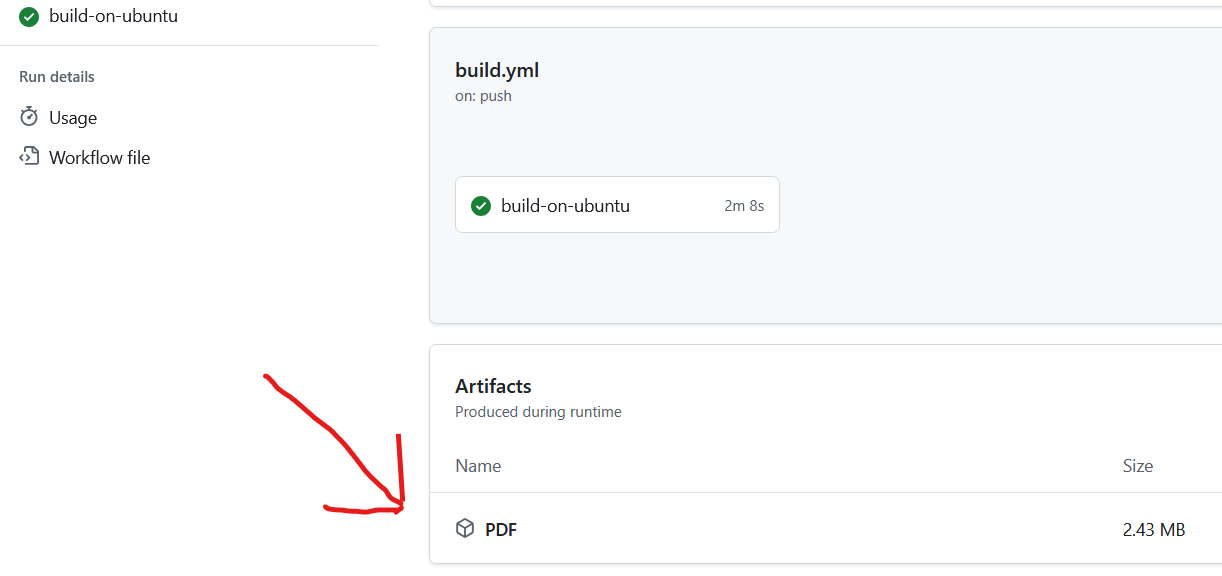
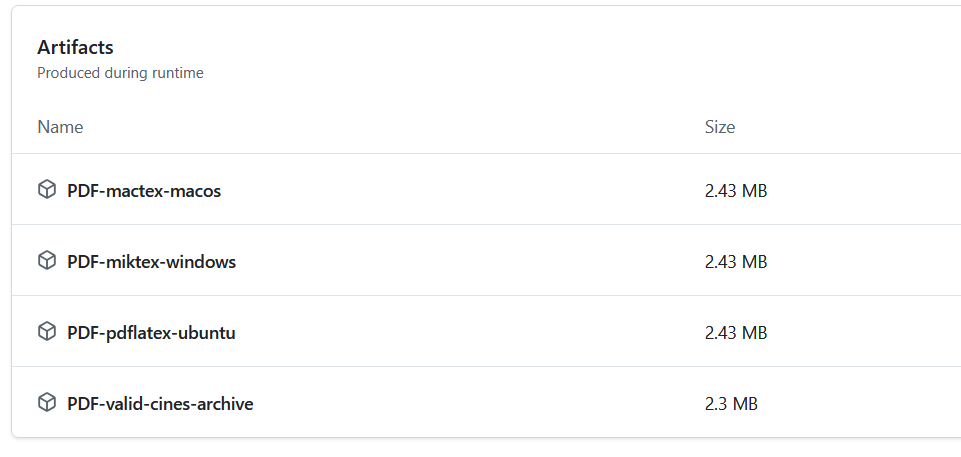
Add uploaded artifact info in README

diff --git a/README.md b/README.md
@@ -1,12 +1,28 @@
 # these-I3S
 
+## Français
+
+### Présentation
+
 Vous trouverez ici un modèle de thèse en latex avec pour [couverture celle demandée par Université Côte d'Azur](https://bu.univ-cotedazur.fr/fr/utiliser-nos-services/deposer-sa-these-ou-son-memoire/deposer-sa-these-de-doctorat).
 
 Les macros `\hdr` et `\master` permettent de spécifier que le document est respectivement pour une habilitation à diriger les recherches et pour une mémoire de master.
 
-Une pipeline GitHub Actions compile automatiquement le projet à chaque nouveau commit. Ainsi, vous avez la garantie que le code LaTeX compile correctement à chacune de vos modifications, si le job réussit !
+:point_right: N'hésitez pas à poster des issues ou faire des pull-request pour améliorer ce modèle.
 
-Une fois le job terminé, vous pourrez alors télécharger le PDF compilé directement dans les artefacts GitHub:
+### Validation automatique du code LaTeX
+
+Une pipeline GitHub Actions compile automatiquement le projet à chaque nouveau commit. Les tests de build sont lancés sur les plateformes suivantes:
+
+- :penguin: Ubuntu avec pdflatex
+- :keycap_ten: Windows avec MikTex
+- :apple: MacOS avec MacTex
+
+Ainsi, vous avez la garantie que le code LaTeX compile correctement à chacune de vos modifications sur toutes ces plateformes, si les jobs réussissent !
+
+### Génération automatique des PDFs compilés
+
+Une fois les jobs terminés, vous pourrez alors télécharger les PDFs compilés sur chacune des plateformes directement dans les artefacts GitHub Actions:
 
 Aller dans l'onglet **Actions**:
 
@@ -16,32 +32,55 @@ Sélectionner le dernier Workflow, correspondant à votre commit:
 
 ![Workflow GitHub actions](assets/build_workflow.png)
 
-Enfin, télécharger votre fichier PDF compilé:
+Enfin, télécharger les fichiers PDFs compilés sur chacune des plateformes:
 
 ![Téléchargement de l'artefact compilé](assets/download_artifact.png)
 
-N'hésitez pas à poster des issues ou faire des pull-request pour améliorer ce modèle.
+Un artefact prêt à l'archivage, directement compatible avec le format Facile CINES (https://facile.cines.fr/) est aussi automatiquement généré:
 
----
+![PDF archive compatible avec le format Facile CINES](assets/valid_cines_format.png)
+
+:white_check_mark: Il devrait alors être possible d'envoyer ce PDF directement sur ADUM !
+
+
+## English
+
+### Presentation
 
 You'll find here a Ph.D. thesis template in latex with the [first page requested by Université Côte d'Azur](https://bu.univ-cotedazur.fr/fr/utiliser-nos-services/deposer-sa-these-ou-son-memoire/deposer-sa-these-de-doctorat).
 
 The macros `\hdr` and `\master` specify that the thesis is respectively for a *habilitation à diriger les recherches* and for a master thesis.
 
-A GitHub Actions pipeline automatically compiles the project with each new commit. This ensures that the LaTeX code compiles correctly with each change, if the job is successful!
+:point_right: Do not hesitate to post issues or pull requests to improve this model.
 
-Once the job is complete, you can download the compiled PDF directly from your GitHub artifacts:
+### Automatic LaTeX code validation
+
+A GitHub Actions pipeline automatically compiles the project with each new commit. Build tests are run on the following platforms:
+
+- :penguin: Ubuntu with pdflatex
+- :keycap_ten: Windows with MikTeX
+- :apple: macOS with MacTeX
+
+This guarantees that the LaTeX code compiles correctly with each change on all these platforms, provided the jobs are successful!
+
+### Automatic generation of compiled PDFs
+
+Once the jobs are complete, you can download the compiled PDFs on each platform directly from the GitHub Actions artifacts:
 
 Go to the **Actions** tab:
 
 ![GitHub Actions tab](assets/github_actions_tab.png)
 
-Select the latest workflow, corresponding to your commit:
+Select the last workflow, corresponding to your commit:
 
 ![GitHub Actions Workflow](assets/build_workflow.png)
 
-Finally, download your compiled PDF file:
+Finally, download the compiled PDF files on each platform:
 
-![Downloading the compiled artifact](assets/download_artifact.png)
+![Download Compiled Artifact](assets/download_artifact.png)
 
-Do not hesitate to post issues or pull requests to improve this model.
+An archiving-ready artifact, directly compatible with the Facile CINES format (https://facile.cines.fr/), is also automatically generated:
+
+![PDF archive compatible with the Facile CINES format](assets/valid_cines_format.png)
+
+:white_check_mark: It should then be possible upload this PDF directly to ADUM!
